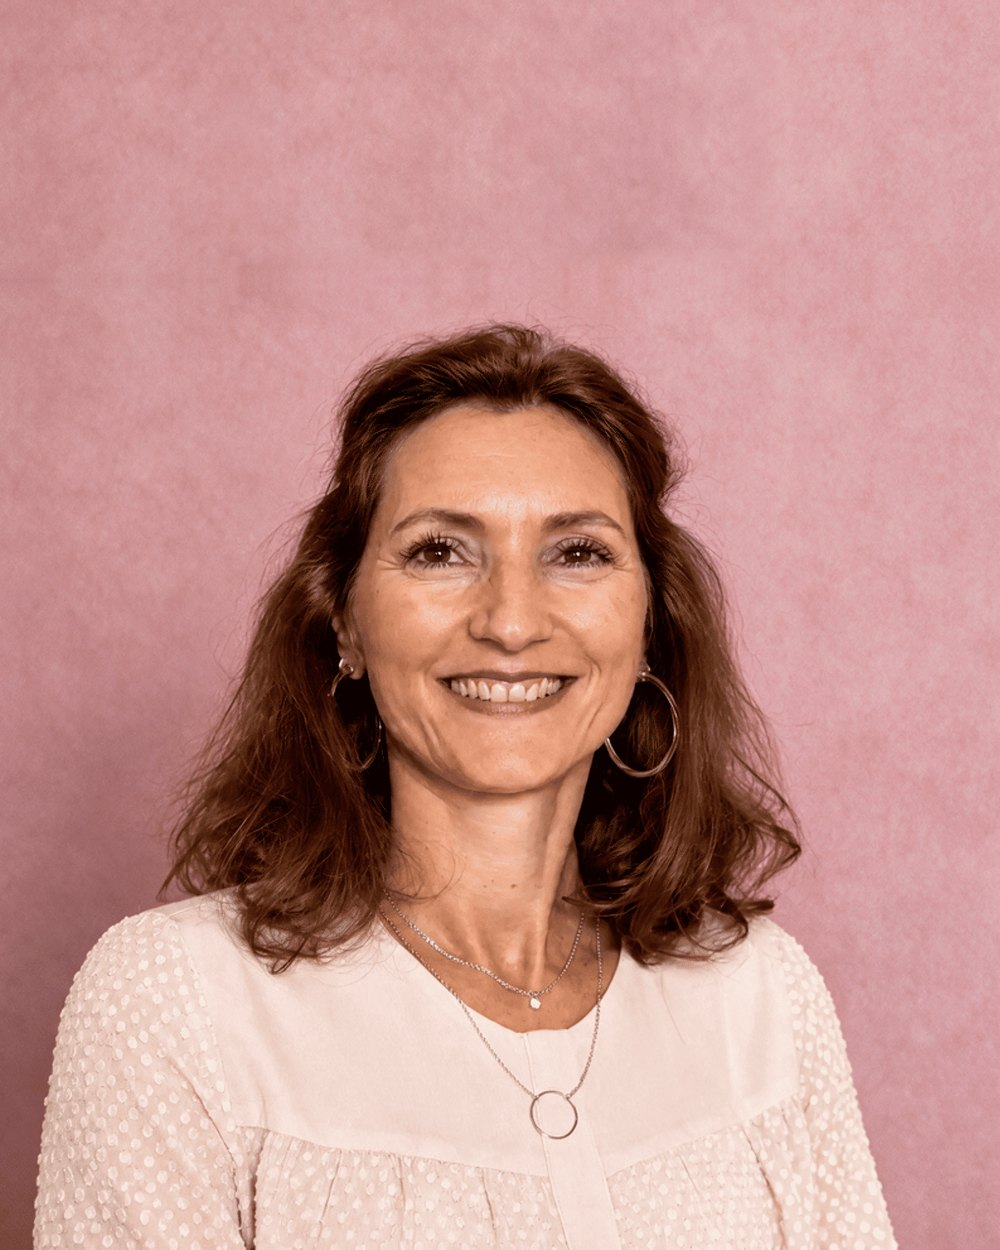
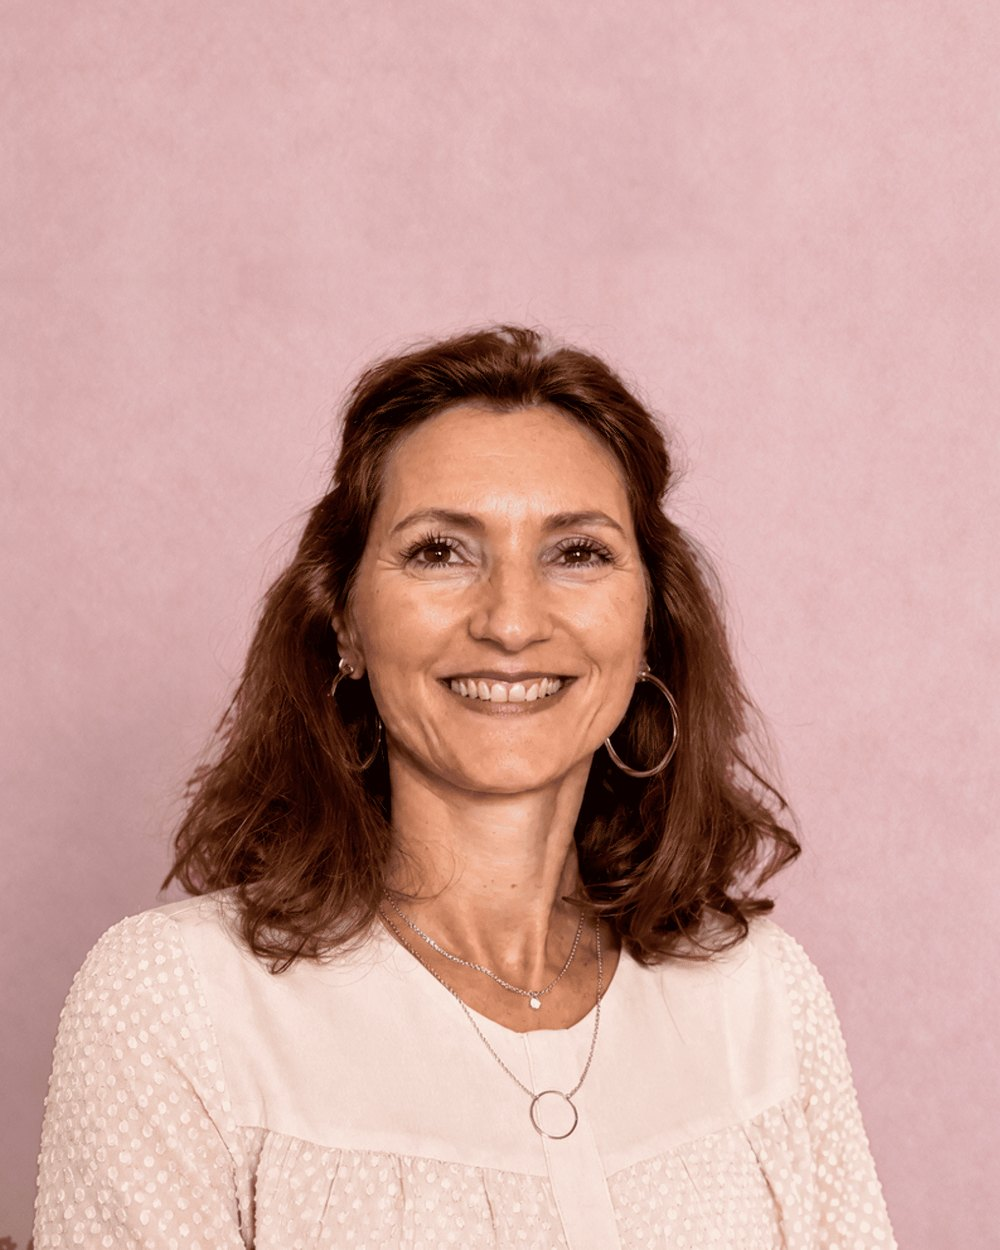
Retours cliente : hero texte à gauche avec vague douce à droite, fond du portrait éclairci, « Accompagnement conjugal »
- Accueil : retour au texte aligné à gauche, une seule vague bleu profond adoucie dans l'angle supérieur droit (les deux vagues en vis-à-vis sont retirées)
- Qui suis-je : fond rose du portrait éclairci et adouci, sujet inchangé
- « Accompagnement conjugal » à la place de « Accompagnement de couple » (menu, carte, titre, boutons, tarifs)

diff --git a/site/index.html b/site/index.html
@@ -41,7 +41,7 @@
           <a href="index.html#accompagnements">Pourquoi consulter ?</a>
           <ul class="sub">
             <li><a href="therapie-individuelle.html">Accompagnement individuel</a></li>
-            <li><a href="therapie-de-couple.html">Accompagnement de couple</a></li>
+            <li><a href="therapie-de-couple.html">Accompagnement conjugal</a></li>
             <li><a href="therapie-familiale.html">Accompagnement familial</a></li>
             <li><a href="programme-mbct-pleine-conscience.html">Programme MBCT — Pleine conscience</a></li>
           </ul>
@@ -57,24 +57,23 @@
 
   <!-- ===== Hero ===== -->
   <section class="hero">
-    <!-- Vagues bleues en vis-à-vis : angle supérieur droit et angle inférieur gauche -->
-    <svg class="hero-wave hero-wave--tr" viewBox="0 0 750 600" aria-hidden="true">
-      <path d="M0,0 C50,0 80,40 100,80 C125,130 140,200 190,220 C240,240 330,238 390,228 C430,222 432,300 436,350 C440,400 430,440 480,436 C530,432 590,380 615,405 C640,430 625,520 650,545 C675,565 715,540 735,570 C742,580 746,592 750,600 L750,0 Z" fill="currentColor"/>
+    <!-- Vague bleue douce dans l'angle supérieur droit -->
+    <svg class="hero-wave" viewBox="0 0 640 520" preserveAspectRatio="none" aria-hidden="true">
+      <path d="M0,0 C120,30 230,50 330,120 C430,190 450,260 520,330 C580,390 615,450 640,520 L640,0 Z" fill="currentColor"/>
     </svg>
-    <svg class="hero-wave hero-wave--bl" viewBox="0 0 520 545" aria-hidden="true">
-      <path d="M0,0 C45,0 80,40 95,95 C110,150 105,215 160,233 C200,246 270,215 310,232 C350,250 362,320 375,385 C385,435 385,465 410,475 C440,487 480,480 502,500 C514,512 518,530 520,545 L0,545 Z" fill="currentColor"/>
-    </svg>
-    <div class="container hero-center">
-      <h1>Raphaëlle Beaufils, psychologue&nbsp;clinicienne à&nbsp;Verrières&#8209;en&#8209;Anjou</h1>
-      <ul class="hero-badges">
-        <li><img src="img/illus-therapie-familiale.png" alt="" aria-hidden="true"> Formée à l'intervention systémique</li>
-        <li><img src="img/illus-mbct.png" alt="" aria-hidden="true"> Instructrice MBCT · pleine conscience</li>
-      </ul>
-      <p>Psychologue clinicienne depuis plus de 20 ans, j'accompagne les personnes confrontées à des difficultés personnelles, relationnelles ou familiales, lorsqu'elles traversent une période difficile et qu'elles souhaitent retrouver un meilleur équilibre de vie.</p>
-      <p>Je vous accueille dans un espace de parole et d'écoute, de réflexion et de soutien, pour vous aider à mieux comprendre ce que vous vivez et à mobiliser vos ressources pour avancer.</p>
-      <div class="hero-actions">
-        <a class="btn btn-primary" href="contact.html">Prendre rendez-vous</a>
-        <a class="btn btn-ghost" href="index.html#accompagnements">Découvrir mes accompagnements</a>
+    <div class="container">
+      <div class="hero-text">
+        <h1>Raphaëlle Beaufils, psychologue&nbsp;clinicienne à&nbsp;Verrières&#8209;en&#8209;Anjou</h1>
+        <ul class="hero-badges">
+          <li><img src="img/illus-therapie-familiale.png" alt="" aria-hidden="true"> Formée à l'intervention systémique</li>
+          <li><img src="img/illus-mbct.png" alt="" aria-hidden="true"> Instructrice MBCT · pleine conscience</li>
+        </ul>
+        <p>Psychologue clinicienne depuis plus de 20 ans, j'accompagne les personnes confrontées à des difficultés personnelles, relationnelles ou familiales, lorsqu'elles traversent une période difficile et qu'elles souhaitent retrouver un meilleur équilibre de vie.</p>
+        <p>Je vous accueille dans un espace de parole et d'écoute, de réflexion et de soutien, pour vous aider à mieux comprendre ce que vous vivez et à mobiliser vos ressources pour avancer.</p>
+        <div class="hero-actions">
+          <a class="btn btn-primary" href="contact.html">Prendre rendez-vous</a>
+          <a class="btn btn-ghost" href="index.html#accompagnements">Découvrir mes accompagnements</a>
+        </div>
       </div>
     </div>
   </section>
@@ -93,7 +92,7 @@
         </a>
         <a class="card" href="therapie-de-couple.html">
           <img class="card-illus" src="img/illus-therapie-couple.png" alt="" aria-hidden="true">
-          <h3>Accompagnement de couple</h3>
+          <h3>Accompagnement conjugal</h3>
           <p>Retrouver le dialogue, sortir des conflits répétitifs et mieux se comprendre à deux.</p>
           <span class="card-more">En savoir plus →</span>
         </a>

diff --git a/site/styles.css b/site/styles.css
@@ -287,36 +287,25 @@ figcaption { font-size: 0.85rem; color: var(--ink-soft); margin-top: 12px; }
 }
 .rings circle { stroke-dasharray: 1 7; stroke-linecap: round; }
 
-/* ---- Hero (accueil) : texte centré entre deux vagues bleues ---- */
-.hero {
-  position: relative;
-  overflow: hidden;
-  padding-block: clamp(120px, 12vw, 176px) 88px;
-}
+/* ---- Hero (accueil) : texte à gauche, vague douce à droite ---- */
+.hero { position: relative; overflow: hidden; padding-block: 96px 88px; }
 
-/* Deux vagues bleu profond en vis-à-vis (croquis de l'utilisateur) :
-   l'une dans l'angle supérieur droit (sous le header, contre le bord droit),
-   l'autre dans l'angle inférieur gauche. Bords intérieurs ondulés en
-   diagonale, parallèles entre eux ; le texte centré passe au-dessus. */
+/* Vague bleu profond dans l'angle supérieur droit (sous le header, contre le
+   bord droit de l'écran). Son bord intérieur descend en diagonale à peine
+   ondulée : version « plus douce, moins prononcée » demandée par la cliente. */
 .hero-wave {
   position: absolute;
-  display: block;
-  height: auto;
+  top: 0;
+  right: 0;
+  width: 40%;
+  height: 66%;
   color: var(--blue-deep);
   pointer-events: none;
 }
-.hero-wave--tr { top: 0; right: 0; width: clamp(176px, 37.5vw, 620px); }
-.hero-wave--bl { bottom: -1px; left: 0; width: clamp(104px, 26vw, 430px); }
-@media (max-width: 1200px) {
-  /* entre mobile et grand écran, la vague du bas reste à l'écart du texte */
-  .hero-wave--bl { width: clamp(104px, 20vw, 240px); }
-}
-.hero-center { position: relative; z-index: 1; max-width: 880px; text-align: center; }
-/* Titre toujours sur trois lignes courtes : il reste à l'écart de la vague du haut */
-.hero-center h1 { max-width: 14em; margin-inline: auto; }
-.hero-center p { max-width: 62ch; margin-inline: auto; }
-.hero-center .hero-badges,
-.hero-center .hero-actions { justify-content: center; }
+.hero-text { position: relative; z-index: 1; max-width: min(640px, 54%); }
+/* Titre sur trois lignes courtes : il reste à l'écart de la vague */
+.hero-text h1 { max-width: 14em; }
+.hero-text p { max-width: 60ch; }
 
 .hero-grid {
   display: grid;
@@ -847,9 +836,9 @@ figcaption { font-size: 0.85rem; color: var(--ink-soft); margin-top: 12px; }
   :root { --wave-h: 42px; }
 
   .hero-grid { grid-template-columns: 1fr; gap: 36px; }
-  .hero { padding-block: 104px 112px; }
-  .hero-wave--tr { width: clamp(128px, 40vw, 360px); }
-  .hero-wave--bl { width: clamp(96px, 20vw, 170px); }
+  .hero { padding-block: 112px 56px; }
+  .hero-wave { width: clamp(128px, 40vw, 340px); height: auto; }
+  .hero-text { max-width: none; }
   .hero .ph-portrait, .portrait { max-width: 420px; }
 
   /* Typographie allégée sur mobile : titres plus petits, jamais tronqués */

diff --git a/site/therapie-de-couple.html b/site/therapie-de-couple.html
@@ -3,7 +3,7 @@
 <head>
   <meta charset="UTF-8">
   <meta name="viewport" content="width=device-width, initial-scale=1">
-  <title>Accompagnement de couple Angers | Raphaëlle Beaufils</title>
+  <title>Accompagnement conjugal Angers | Raphaëlle Beaufils</title>
   <meta name="description" content="Thérapie de couple à Verrières-en-Anjou : retrouver le dialogue, sortir des conflits répétitifs, traverser une crise de couple. Prenez rendez-vous.">
   <link rel="stylesheet" href="styles.css">
 </head>
@@ -24,7 +24,7 @@
           <a href="index.html#accompagnements">Pourquoi consulter ?</a>
           <ul class="sub">
             <li><a href="therapie-individuelle.html">Accompagnement individuel</a></li>
-            <li><a href="therapie-de-couple.html" aria-current="page">Accompagnement de couple</a></li>
+            <li><a href="therapie-de-couple.html" aria-current="page">Accompagnement conjugal</a></li>
             <li><a href="therapie-familiale.html">Accompagnement familial</a></li>
             <li><a href="programme-mbct-pleine-conscience.html">Programme MBCT — Pleine conscience</a></li>
           </ul>
@@ -41,7 +41,7 @@
   <section class="page-hero">
     <div class="container">
       <img class="page-hero-illus" src="img/illus-therapie-couple.png" alt="" aria-hidden="true">
-      <h1>Accompagnement <em>de couple</em></h1>
+      <h1>Accompagnement <em>conjugal</em></h1>
       <p class="lead">Retrouver le dialogue et mieux se comprendre.</p>
     </div>
   </section>

diff --git a/site/contact.html b/site/contact.html
@@ -24,7 +24,7 @@
           <a href="index.html#accompagnements">Pourquoi consulter ?</a>
           <ul class="sub">
             <li><a href="therapie-individuelle.html">Accompagnement individuel</a></li>
-            <li><a href="therapie-de-couple.html">Accompagnement de couple</a></li>
+            <li><a href="therapie-de-couple.html">Accompagnement conjugal</a></li>
             <li><a href="therapie-familiale.html">Accompagnement familial</a></li>
             <li><a href="programme-mbct-pleine-conscience.html">Programme MBCT — Pleine conscience</a></li>
           </ul>
@@ -63,7 +63,7 @@
           <h3>Tarifs</h3>
           <ul class="pricing">
             <li><span>Accompagnement individuel<span class="note">45 minutes</span></span><span class="price">60 €</span></li>
-            <li><span>Accompagnement de couple<span class="note">60 minutes</span></span><span class="price">80 €</span></li>
+            <li><span>Accompagnement conjugal<span class="note">60 minutes</span></span><span class="price">80 €</span></li>
             <li><span>Accompagnement familial<span class="note">60 minutes</span></span><span class="price">80 €</span></li>
             <li><span>Programme MBCT<span class="note">cycle complet — <a href="programme-mbct-pleine-conscience.html">détails</a></span></span><span class="price">350 €</span></li>
           </ul>

diff --git a/site/qui-suis-je.html b/site/qui-suis-je.html
@@ -24,7 +24,7 @@
           <a href="index.html#accompagnements">Pourquoi consulter ?</a>
           <ul class="sub">
             <li><a href="therapie-individuelle.html">Accompagnement individuel</a></li>
-            <li><a href="therapie-de-couple.html">Accompagnement de couple</a></li>
+            <li><a href="therapie-de-couple.html">Accompagnement conjugal</a></li>
             <li><a href="therapie-familiale.html">Accompagnement familial</a></li>
             <li><a href="programme-mbct-pleine-conscience.html">Programme MBCT — Pleine conscience</a></li>
           </ul>
@@ -54,7 +54,7 @@
         <p>Formée à l'intervention systémique (Forsyfa, Nantes) et à la thérapie cognitive basée sur la pleine conscience (MBCT Formation, Paris), j'accompagne les individus, les couples et les familles dans une écoute bienveillante et respectueuse du rythme de chacun.</p>
       </div>
       <figure class="portrait">
-        <img class="photo photo-arch" src="img/portrait-raphaelle-rose.jpg" alt="Raphaëlle Beaufils, psychologue clinicienne" width="1000" height="1250">
+        <img class="photo photo-arch" src="img/portrait-raphaelle-rose.jpg?v=2" alt="Raphaëlle Beaufils, psychologue clinicienne" width="1000" height="1250">
       </figure>
     </div>
   </section>

diff --git a/site/therapie-individuelle.html b/site/therapie-individuelle.html
@@ -24,7 +24,7 @@
           <a href="index.html#accompagnements">Pourquoi consulter ?</a>
           <ul class="sub">
             <li><a href="therapie-individuelle.html" aria-current="page">Accompagnement individuel</a></li>
-            <li><a href="therapie-de-couple.html">Accompagnement de couple</a></li>
+            <li><a href="therapie-de-couple.html">Accompagnement conjugal</a></li>
             <li><a href="therapie-familiale.html">Accompagnement familial</a></li>
             <li><a href="programme-mbct-pleine-conscience.html">Programme MBCT — Pleine conscience</a></li>
           </ul>
@@ -88,7 +88,7 @@
         <a class="btn btn-light" href="contact.html">Prendre rendez-vous</a>
       </div>
       <div class="next-links">
-        <a class="btn btn-ghost" href="therapie-de-couple.html">Accompagnement de couple →</a>
+        <a class="btn btn-ghost" href="therapie-de-couple.html">Accompagnement conjugal →</a>
         <a class="btn btn-ghost" href="therapie-familiale.html">Accompagnement familial →</a>
       </div>
     </div>

diff --git a/site/therapie-familiale.html b/site/therapie-familiale.html
@@ -24,7 +24,7 @@
           <a href="index.html#accompagnements">Pourquoi consulter ?</a>
           <ul class="sub">
             <li><a href="therapie-individuelle.html">Accompagnement individuel</a></li>
-            <li><a href="therapie-de-couple.html">Accompagnement de couple</a></li>
+            <li><a href="therapie-de-couple.html">Accompagnement conjugal</a></li>
             <li><a href="therapie-familiale.html" aria-current="page">Accompagnement familial</a></li>
             <li><a href="programme-mbct-pleine-conscience.html">Programme MBCT — Pleine conscience</a></li>
           </ul>
@@ -77,7 +77,7 @@
       </div>
       <div class="next-links">
         <a class="btn btn-ghost" href="therapie-individuelle.html">Accompagnement individuel →</a>
-        <a class="btn btn-ghost" href="therapie-de-couple.html">Accompagnement de couple →</a>
+        <a class="btn btn-ghost" href="therapie-de-couple.html">Accompagnement conjugal →</a>
       </div>
     </div>
   </section>

diff --git a/site/programme-mbct-pleine-conscience.html b/site/programme-mbct-pleine-conscience.html
@@ -24,7 +24,7 @@
           <a href="index.html#accompagnements">Pourquoi consulter ?</a>
           <ul class="sub">
             <li><a href="therapie-individuelle.html">Accompagnement individuel</a></li>
-            <li><a href="therapie-de-couple.html">Accompagnement de couple</a></li>
+            <li><a href="therapie-de-couple.html">Accompagnement conjugal</a></li>
             <li><a href="therapie-familiale.html">Accompagnement familial</a></li>
             <li><a href="programme-mbct-pleine-conscience.html" aria-current="page">Programme MBCT — Pleine conscience</a></li>
           </ul>

diff --git a/site/approche-systemique.html b/site/approche-systemique.html
@@ -24,7 +24,7 @@
           <a href="index.html#accompagnements">Pourquoi consulter ?</a>
           <ul class="sub">
             <li><a href="therapie-individuelle.html">Accompagnement individuel</a></li>
-            <li><a href="therapie-de-couple.html">Accompagnement de couple</a></li>
+            <li><a href="therapie-de-couple.html">Accompagnement conjugal</a></li>
             <li><a href="therapie-familiale.html">Accompagnement familial</a></li>
             <li><a href="programme-mbct-pleine-conscience.html">Programme MBCT — Pleine conscience</a></li>
           </ul>

diff --git a/site/mentions-legales.html b/site/mentions-legales.html
@@ -25,7 +25,7 @@
           <a href="index.html#accompagnements">Pourquoi consulter ?</a>
           <ul class="sub">
             <li><a href="therapie-individuelle.html">Accompagnement individuel</a></li>
-            <li><a href="therapie-de-couple.html">Accompagnement de couple</a></li>
+            <li><a href="therapie-de-couple.html">Accompagnement conjugal</a></li>
             <li><a href="therapie-familiale.html">Accompagnement familial</a></li>
             <li><a href="programme-mbct-pleine-conscience.html">Programme MBCT — Pleine conscience</a></li>
           </ul>

diff --git a/site/README.md b/site/README.md
@@ -6,7 +6,7 @@ Site statique (HTML/CSS/JS vanilla, aucune dépendance). Pour le voir : ouvrir `
 - `index.html` — Accueil
 - `qui-suis-je.html`
 - `therapie-individuelle.html` — « Accompagnement individuel » (vocabulaire cliente ; l'URL est conservée)
-- `therapie-de-couple.html` — « Accompagnement de couple » (menu, titre, boutons, tarifs ; le texte courant garde « thérapie conjugale systémique »)
+- `therapie-de-couple.html` — « Accompagnement conjugal » (menu, titre, carte, boutons, tarifs ; le texte courant garde « thérapie conjugale systémique »)
 - `therapie-familiale.html` — « Accompagnement familial » (idem ; le texte courant garde « thérapie familiale systémique »)
 - `programme-mbct-pleine-conscience.html`
 - `approche-systemique.html`
@@ -19,8 +19,8 @@ Site statique (HTML/CSS/JS vanilla, aucune dépendance). Pour le voir : ouvrir `
 - **Sur-titres** : supprimés partout (demande cliente), sauf le label « Programme de groupe » sur la page MBCT (`.eyebrow`, petites capitales Commissioner).
 - **Illustrations** : 4 dessins au trait (fond transparent) dans `img/illus-*.png` — cartes de l'accueil, badges du hero, en-têtes des 4 pages accompagnements (`.page-hero-illus`, masquée < 1060px) et **bandeau CTA de chaque page avec l'illustration du service concerné** (Contact et bandeau « Prendre rendez-vous » de l'accueil : accompagnement individuel). Originaux dans `assets/`.
 - **Signature** : sections en aplat bleu profond bordées de vagues organiques (SVG en `--wave`), images et portraits en arche (`.photo-arch`), cartes d'accompagnements en teintes variées, motif d'anneaux pointillés.
-- **Hero de l'accueil** : sans photo, texte centré (`.hero-center`, titre limité à 14em pour tenir sur trois lignes) entre **deux vagues bleu profond en vis-à-vis**, d'après le croquis de l'utilisateur du 2026-09-30 : `.hero-wave--tr` dans l'angle supérieur droit (sous le header, contre le bord droit) et `.hero-wave--bl` dans l'angle inférieur gauche. Ce sont deux SVG inline en absolu dans `.hero`, dimensionnés en `vw` avec `clamp()` et réduits sous 1200 px et 900 px pour ne jamais toucher le texte ni les boutons (vérifié de 320 à 2560 px).
-- **Photos** : portrait de Raphaëlle sur Qui suis-je = `img/portrait-raphaelle-rose.jpg` (haut à pois, fond rose texturé ; recadré en 4:5, 1000×1250, fond de studio prolongé de 440 px vers le haut pour laisser de l'air autour du visage). Les anciens portraits `portrait-raphaelle.jpg` et `portrait-raphaelle-bleu.jpg` restent dans `img/` mais ne sont plus utilisés. Photos du cabinet en haute définition (salon, espace d'accueil, tableau du pont ; 1600 px de large). Optimisées en JPEG avec Pillow ; les originaux sont hors dépôt dans `photos-originales/` à la racine (gitignoré).
+- **Hero de l'accueil** : sans photo, **texte à gauche** (`.hero-text`, 54 % de la largeur au plus, titre sur trois lignes) et **une seule vague bleu profond, douce, dans l'angle supérieur droit** (`.hero-wave`, SVG inline en absolu : 40 % × 66 % du hero, bord intérieur arrondi et à peine ondulé). Retour demandé par la cliente le 2026-10-02 après les essais « texte centré » (bandeau horizontal, puis deux vagues en vis-à-vis). Sous 900 px la vague se réduit à l'angle ; aucun chevauchement avec le texte de 320 à 2560 px.
+- **Photos** : portrait de Raphaëlle sur Qui suis-je = `img/portrait-raphaelle-rose.jpg` (haut à pois ; recadré en 4:5, 1000×1250, fond de studio prolongé de 440 px vers le haut pour laisser de l'air autour du visage, et **fond rose éclairci et adouci** à la demande de la cliente : silhouette détourée par la couleur, fond fondu à 34 % vers un rose poudré clair ; `?v=2` sur le `src` pour contourner le cache). Les anciens portraits `portrait-raphaelle.jpg` et `portrait-raphaelle-bleu.jpg` restent dans `img/` mais ne sont plus utilisés. Photos du cabinet en haute définition (salon, espace d'accueil, tableau du pont ; 1600 px de large). Optimisées en JPEG avec Pillow ; les originaux sont hors dépôt dans `photos-originales/` à la racine (gitignoré).
 - **Bloc « Prochaine session » (page MBCT)** : sort du conteneur étroit pour occuper toute la largeur (`.session-block` / `.session-grid`) — grande carte calendrier (mois + pastilles `.day` des dates, journée intensive en pastille sable) et, à droite, Tarifs (kaki) et Inscription (bleu profond, téléphone en grand).
 - **Navigation** : plus de bouton « Prendre rendez-vous » dans la barre du haut (doublon avec Contact, pas de prise de RDV en ligne) ; les appels à l'action restent dans le hero et les bandeaux CTA.
 - **Sous-menu « Pourquoi consulter ? »** : pont invisible (`.sub::before`) sur l'écart + délai de fermeture de 250 ms dans `nav.js`, pour pouvoir atteindre les sous-items à la souris.
